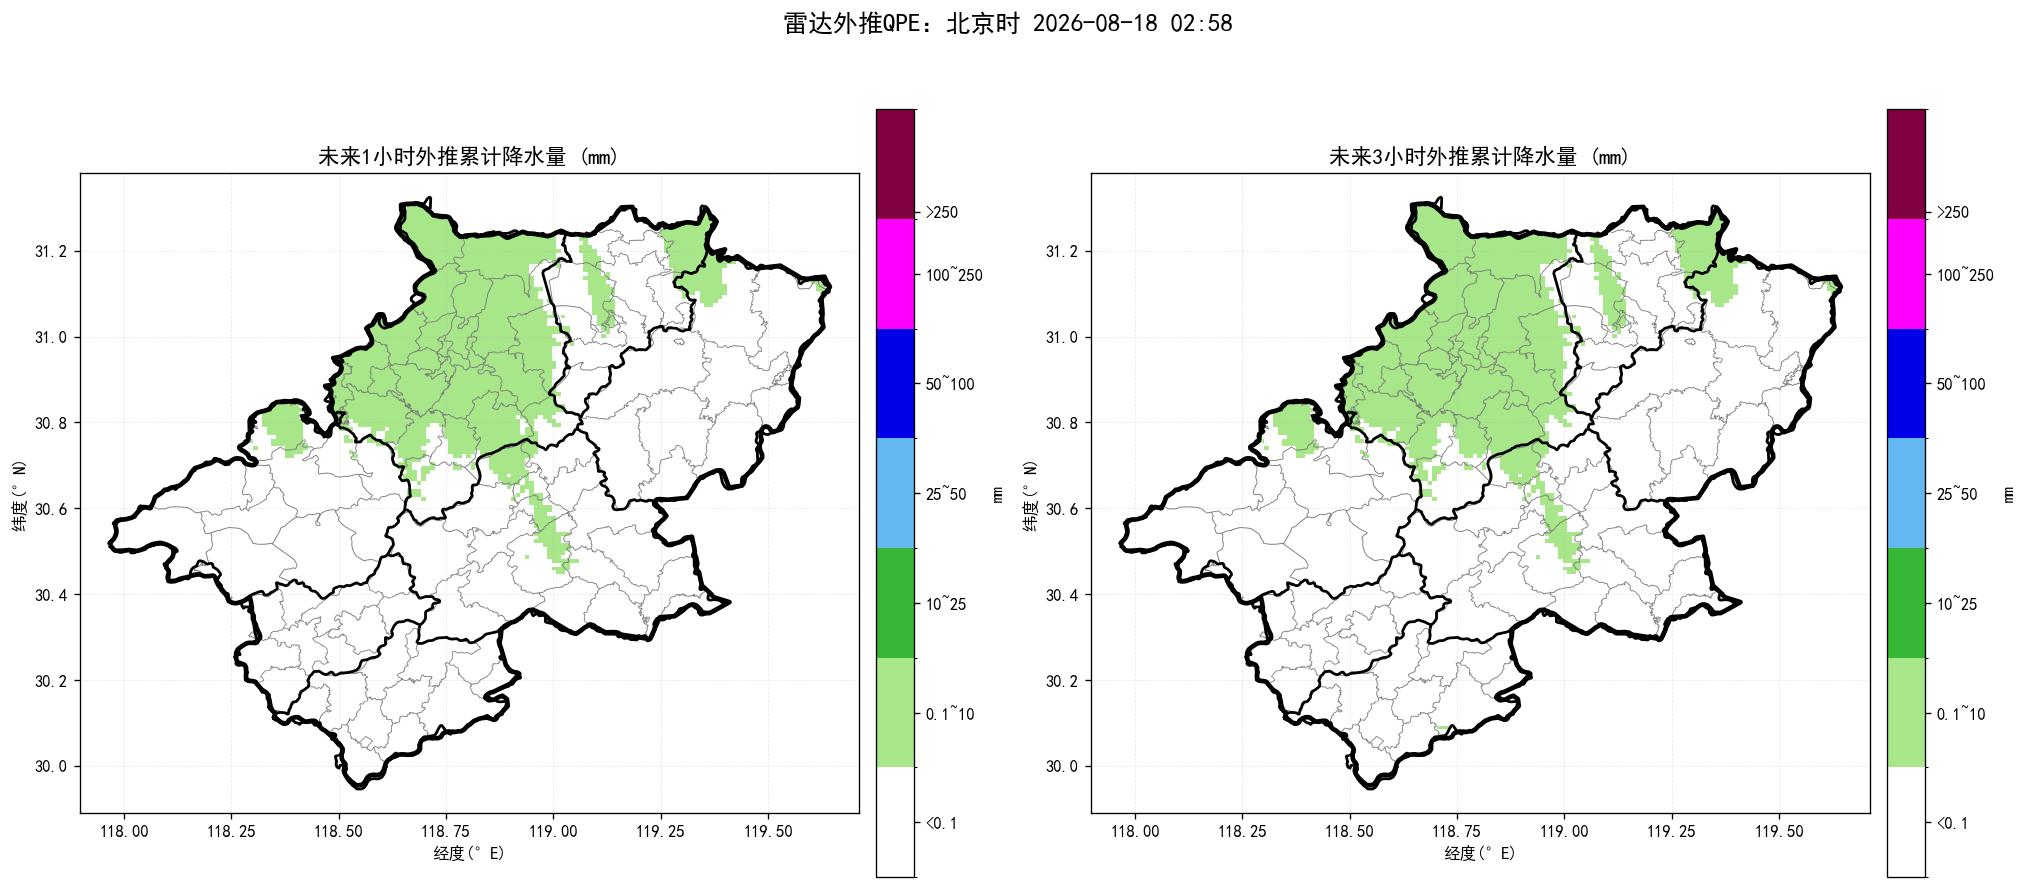
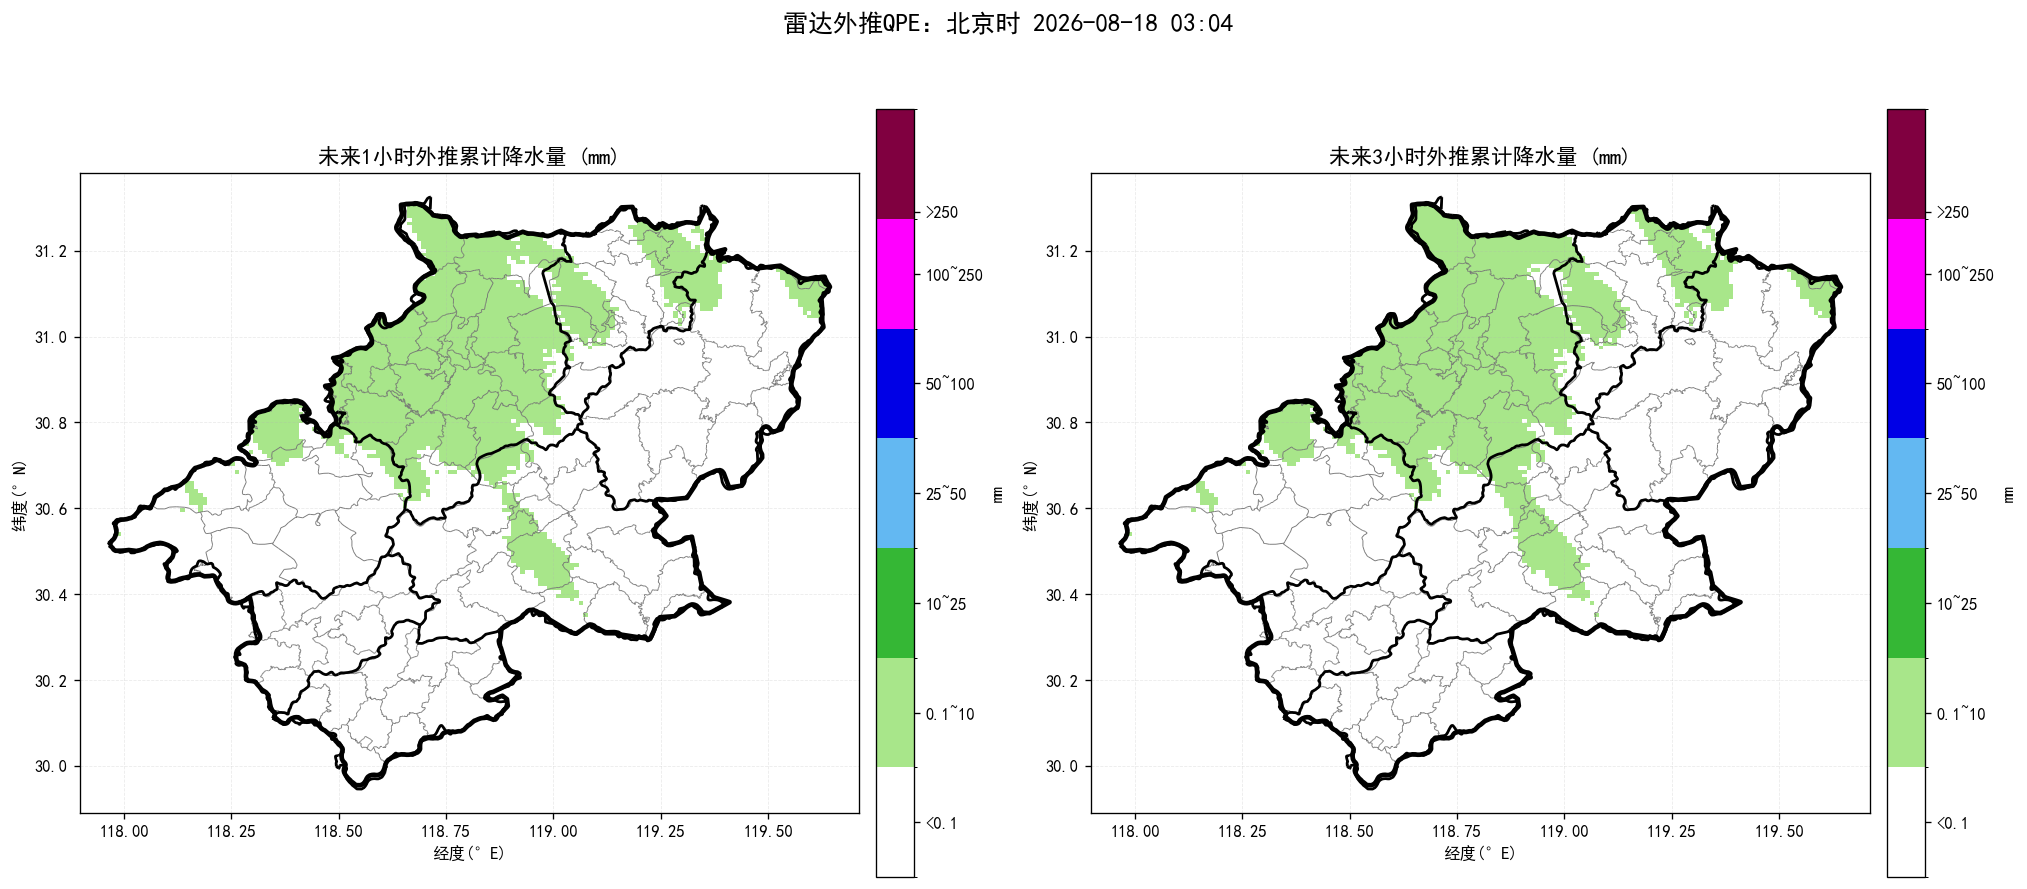
update nowcast products

diff --git a/index.html b/index.html
@@ -15,11 +15,11 @@ img.product{display:block;width:100%;height:auto;margin:10px auto 26px;border:1p
 .footer{font-size:13px;color:#777;text-align:center;margin-top:30px}
 @media(max-width:700px){.sheet{margin:0;padding:18px 15px}.alert-title{font-size:22px}.county-line{font-size:17px}.prob{font-size:18px}}
 </style></head><body><main class="sheet">
-<div class="time">起报时间：北京时 2026-08-18 02:58</div>
+<div class="time">起报时间：北京时 2026-08-18 03:04</div>
 <div class="alert-title">未来一小时降水量超过 20 毫米的乡镇：</div><div class="county-line">无</div>
 <div class="alert-title">未来三小时降水量超过 50 毫米的乡镇：</div><div class="county-line">无</div>
 <div class="alert-title">未来三小时雷暴大风（组合反射率 > 55 dBZ）的乡镇：</div><div class="county-line">无</div>
-<div class="prob">最大降水量概率预估：宣城市范围内未来三小时降水偏小，最大预报约3.1毫米，暂不进行50/80/100毫米概率预估。</div>
+<div class="prob">最大降水量概率预估：宣城市范围内未来三小时降水偏小，最大预报约4.3毫米，暂不进行50/80/100毫米概率预估。</div>
 <div class="section-title">未来降水预报图：</div><img class="product" src="短临降水预报.png" alt="未来降水预报图">
 <div class="section-title">未来三小时组合反射率图：</div><img class="product" src="未来3小时组合反射率.png" alt="未来三小时组合反射率图">
 <div class="section-title">未来三小时雷暴大风图：</div><img class="product" src="未来3小时雷暴大风.png" alt="未来三小时雷暴大风图">
